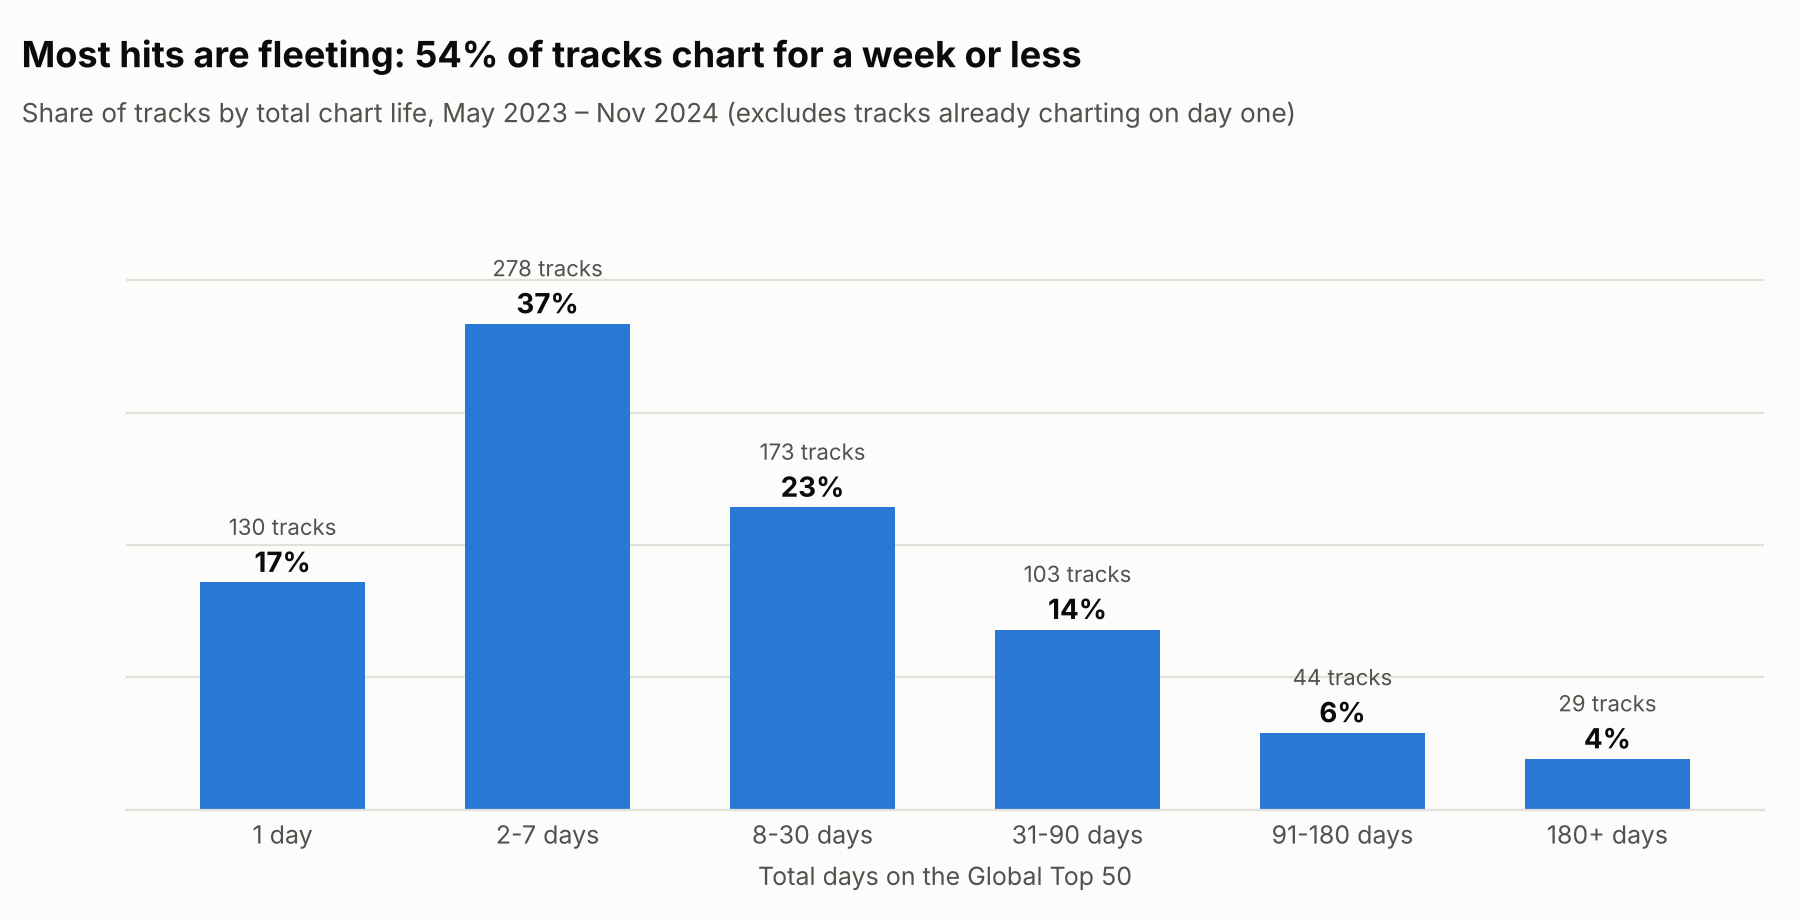
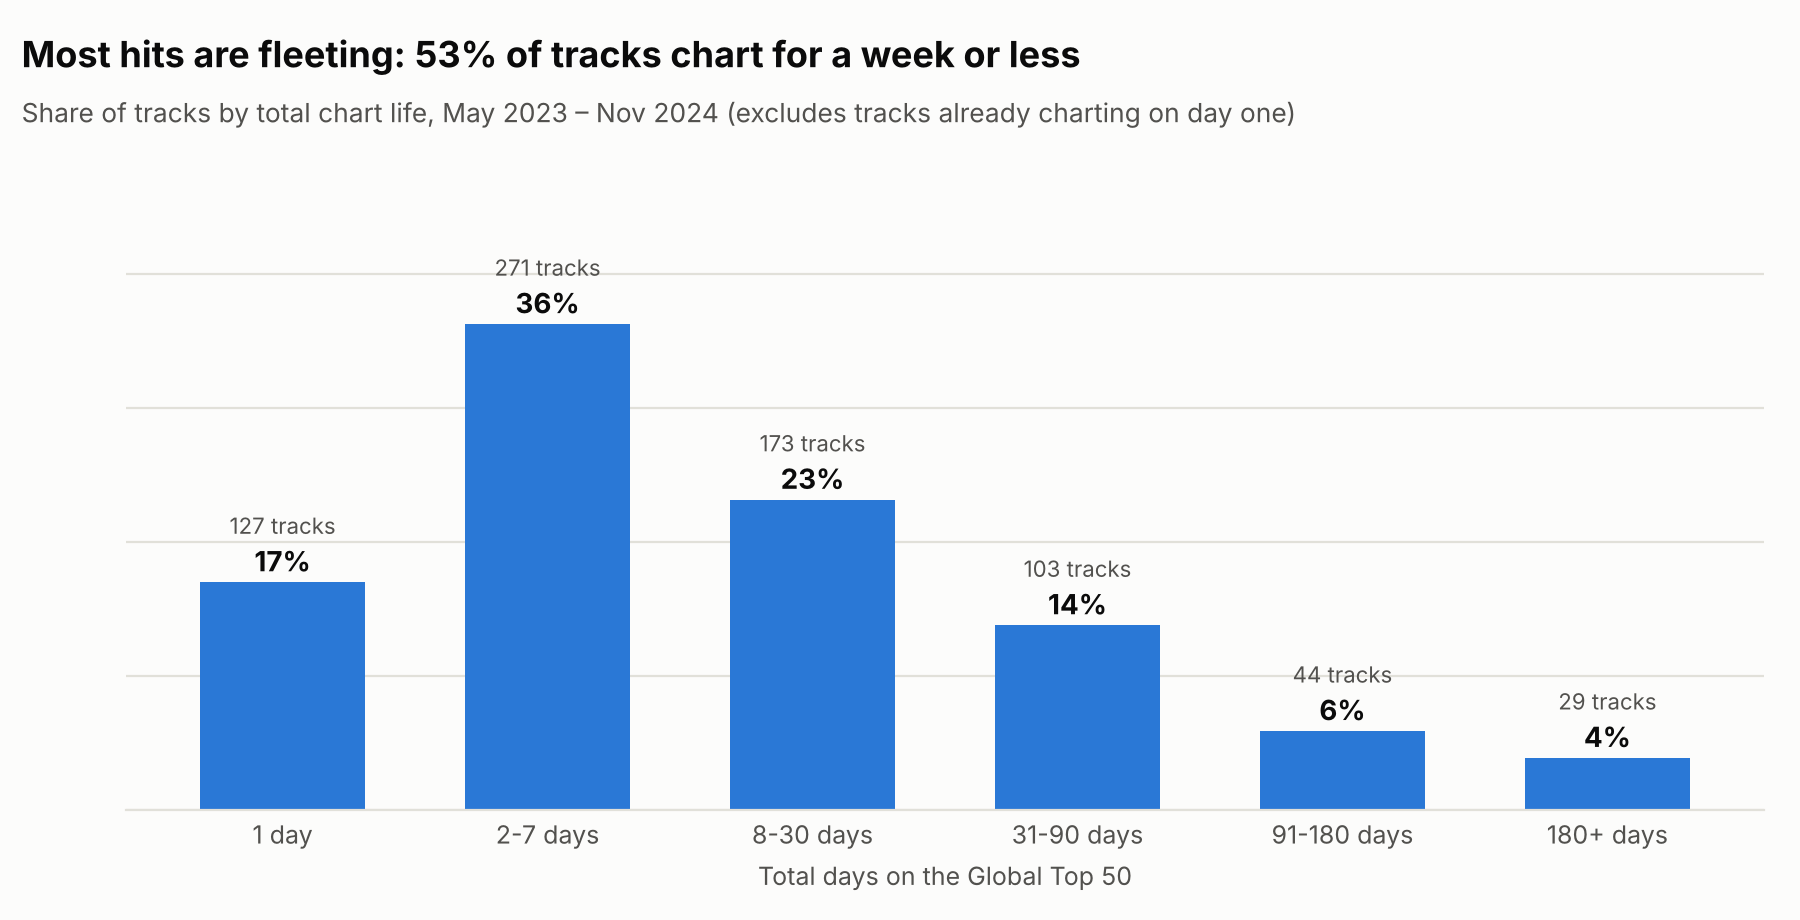
Regenerate insights and model report on corrected tracks

diff --git a/docs/model_report.md b/docs/model_report.md
@@ -4,10 +4,10 @@
 
 ## Summary
 
-- **A week of chart data is worth more than everything known at launch.** On tracks that debuted in 2024 (held out from training), the week-one model reaches **ROC-AUC 0.91** (95% CI 0.87–0.95), against 0.71 for the launch-day model and 0.61 for debut position alone. The gain is **+0.21 AUC** (95% CI +0.13 to +0.28, paired bootstrap).
-- **The model is useful in practice.** Of the 20% of test tracks it ranks highest, 82% went on to chart 30+ days, against a base rate of 28% (**2.9x lift**).
+- **A week of chart data is worth more than everything known at launch.** On tracks that debuted in 2024 (held out from training), the week-one model reaches **ROC-AUC 0.91** (95% CI 0.86–0.95), against 0.69 for the launch-day model and 0.61 for debut position alone. The gain is **+0.22 AUC** (95% CI +0.14 to +0.29, paired bootstrap).
+- **The model is useful in practice.** Of the 20% of test tracks it ranks highest, 82% went on to chart 30+ days, against a base rate of 29% (**2.8x lift**).
 - **Survival analysis agrees.** Half of all tracks leave the chart within **7 chart days**. Among tracks still charting on day 7, those that climbed in week one have a median remaining life of **57 days**, against 8 for those that didn't (log-rank p < 0.001).
-- **At launch, 5 of 9 characteristics significantly change survival** in a Cox model: debut position (per 10 places lower) (HR 1.21); popularity at debut (per 10 points) (HR 0.91); new release (<=30 days old) (HR 1.45); released as a single (HR 0.58); duration (per minute) (HR 1.10). The model ranks tracks only moderately well (C-index 0.65), which confirms that launch-day information alone is limited.
+- **At launch, 5 of 9 characteristics significantly change survival** in a Cox model: debut position (per 10 places lower) (HR 1.21); popularity at debut (per 10 points) (HR 0.90); new release (<=30 days old) (HR 1.43); released as a single (HR 0.60); duration (per minute) (HR 1.10). The model ranks tracks only moderately well (C-index 0.65), which confirms that launch-day information alone is limited.
 
 ---
 
@@ -24,7 +24,7 @@
 
 - **Point-in-time features.** Launch-day features use only the debut snapshot, release metadata and the lead artist's chart history *before* the debut date. Week-one features use only the 7 days after debut. Tests in `tests/test_ml_features.py` check both rules.
 - **Labels need a full window.** Tracks debuting in the last 180 days of data have no label, because their outcome isn't known yet. They are scored on a watchlist (section 5) instead of being dropped silently or mislabelled.
-- **Time-based split.** Train on debuts before 01 Jan 2024 (n = 376), test on later debuts (n = 202). A random split would let the model learn from tracks released after the ones it predicts.
+- **Time-based split.** Train on debuts before 01 Jan 2024 (n = 376), test on later debuts (n = 195). A random split would let the model learn from tracks released after the ones it predicts.
 - **Model selection** uses 5-fold cross-validation inside the training set only. The test set is scored exactly once.
 - **Uncertainty.** Confidence intervals come from 2,000 paired bootstrap resamples of the test set.
 
@@ -34,19 +34,19 @@
 
 | Model | Features | Chosen algorithm | CV AUC (train) | Test AUC [95% CI] | Avg precision | Brier | Precision @ top 20% |
 |---|---|---|---:|---:|---:|---:|---:|
-| Debut position only | 1 feature | Gradient boosting | 0.557 | 0.606 [0.52–0.69] | 0.408 | 0.199 | 40% |
-| Launch-day model | 12 features | Logistic regression | 0.681 | 0.706 [0.62–0.78] | 0.499 | 0.181 | 50% |
-| Week-one model | 19 features | Logistic regression | 0.935 | 0.913 [0.87–0.95] | 0.801 | 0.106 | 82% |
+| Debut position only | 1 feature | Gradient boosting | 0.557 | 0.610 [0.53–0.69] | 0.430 | 0.204 | 41% |
+| Launch-day model | 12 features | Logistic regression | 0.681 | 0.691 [0.61–0.77] | 0.499 | 0.187 | 51% |
+| Week-one model | 19 features | Logistic regression | 0.935 | 0.908 [0.86–0.95] | 0.799 | 0.111 | 82% |
 
-Base rate in the test set: 28%. An uninformative model scores AUC 0.50 and average precision 0.282.
+Base rate in the test set: 29%. An uninformative model scores AUC 0.50 and average precision 0.292.
 
-**Does momentum really add value?** In a paired bootstrap, the week-one model beats the launch-day model by +0.208 AUC (95% CI +0.134 to +0.283, bootstrap p < 0.001).
+**Does momentum really add value?** In a paired bootstrap, the week-one model beats the launch-day model by +0.217 AUC (95% CI +0.142 to +0.292, bootstrap p < 0.001).
 
 ### What drives the prediction
 
 ![Feature importance](figures/10_feature_importance.png)
 
-Shuffling **week 1: position on day 7 (51 = off chart)** costs the most AUC (0.077). Week-one features account for 93% of the total importance. Permutation importance on the held-out set is model-agnostic, and unlike impurity-based importance it isn't biased towards high-cardinality features.
+Shuffling **week 1: position on day 7 (51 = off chart)** costs the most AUC (0.082). Week-one features account for 92% of the total importance. Permutation importance on the held-out set is model-agnostic, and unlike impurity-based importance it isn't biased towards high-cardinality features.
 
 ## 4. Survival analysis
 
@@ -54,7 +54,7 @@ Classification needs a fixed window and drops tracks whose outcome is unknown. S
 
 - **Time:** total days on chart.
 - **Event:** the chart life has ended, meaning the track was absent for at least the last 14 days of data.
-- **Tracks:** 757 with a known debut, of which 668 have ended their chart life and 89 are censored.
+- **Tracks:** 747 with a known debut, of which 658 have ended their chart life and 89 are censored.
 
 ### Kaplan-Meier by debut position
 
@@ -62,12 +62,12 @@ Classification needs a fixed window and drops tracks whose outcome is unknown. S
 
 | Group | Tracks | Exits | Median chart days | Still charting at 30 days | Still charting at 90 days |
 |---|---:|---:|---:|---:|---:|
-| All tracks | 757 | 668 | 7 | 26% | 13% |
-| Debuted #1-10 | 145 | 124 | 20 | 38% | 20% |
-| Debuted #11-25 | 199 | 181 | 5 | 14% | 7% |
-| Debuted #26-50 | 413 | 363 | 5 | 28% | 13% |
+| All tracks | 747 | 658 | 7 | 27% | 13% |
+| Debuted #1-10 | 143 | 122 | 21 | 38% | 20% |
+| Debuted #11-25 | 196 | 178 | 5 | 15% | 8% |
+| Debuted #26-50 | 408 | 358 | 5 | 28% | 14% |
 
-Log-rank test across the three groups: χ² = 27.2, p < 0.001.
+Log-rank test across the three groups: χ² = 28.6, p < 0.001.
 
 ### Landmark analysis: does week-one momentum matter?
 
@@ -77,7 +77,7 @@ Comparing tracks that climbed in week one with those that didn't, from debut, wo
 
 | Group | Tracks | Exits | Median remaining chart days | At 30 days | At 90 days |
 |---|---:|---:|---:|---:|---:|
-| Climbed in week one | 193 | 148 | 57 | 62% | 37% |
+| Climbed in week one | 194 | 149 | 57 | 62% | 37% |
 | Did not climb | 146 | 134 | 8 | 25% | 12% |
 
 Log-rank test: χ² = 50.7, p < 0.001.
@@ -90,15 +90,15 @@ A hazard ratio (HR) above 1 means the track tends to leave the chart sooner.
 
 | Covariate | HR | 95% CI | p | PH check p |
 |---|---:|---|---:|---:|
-| Debut position (per 10 places lower) | 1.21 | 1.14–1.28 | < 0.001 | < 0.001 |
-| Popularity at debut (per 10 points) | 0.91 | 0.88–0.93 | < 0.001 | 0.353 |
-| New release (<=30 days old) | 1.45 | 1.14–1.84 | 0.003 | 0.088 |
-| Collaboration | 1.18 | 0.95–1.47 | 0.140 | 0.617 |
-| Explicit | 1.17 | 0.99–1.38 | 0.063 | 0.853 |
-| Released as a single | 0.58 | 0.48–0.71 | < 0.001 | 0.100 |
-| Duration (per minute) | 1.10 | 1.01–1.21 | 0.037 | 0.690 |
-| Debuted in holiday season | 1.02 | 0.78–1.34 | 0.869 | 0.082 |
-| Artist's prior chart days (per doubling) | 0.98 | 0.96–1.01 | 0.149 | < 0.001 |
+| Debut position (per 10 places lower) | 1.21 | 1.14–1.29 | < 0.001 | < 0.001 |
+| Popularity at debut (per 10 points) | 0.90 | 0.88–0.93 | < 0.001 | 0.485 |
+| New release (<=30 days old) | 1.43 | 1.12–1.82 | 0.004 | 0.081 |
+| Collaboration | 1.15 | 0.92–1.44 | 0.221 | 0.401 |
+| Explicit | 1.17 | 0.99–1.38 | 0.060 | 0.943 |
+| Released as a single | 0.60 | 0.49–0.72 | < 0.001 | 0.088 |
+| Duration (per minute) | 1.10 | 1.00–1.21 | 0.039 | 0.771 |
+| Debuted in holiday season | 1.04 | 0.80–1.36 | 0.765 | 0.098 |
+| Artist's prior chart days (per doubling) | 0.98 | 0.96–1.01 | 0.194 | < 0.001 |
 
 Concordance (Harrell's C): **0.65**. The *PH check* tests whether each covariate's effect is constant over time, by correlating its Schoenfeld residuals with time. 2 covariate(s) show a time-varying effect (debut position (per 10 places lower), artist's prior chart days (per doubling)). Their hazard ratios are averages over the chart life and should be read as such. A stratified or time-varying Cox model is the natural next step.
 
@@ -112,19 +112,19 @@ The final week-one model is refit on all labelled tracks and scores the tracks t
 | Numb | Linkin Park | 2024-09-08 | 44 | 22 | 95% | 28 |
 | Tu Boda | Oscar Maydon | 2024-10-15 | 39 | 5 | 95% | 44 |
 | The Emptiness Machine | Linkin Park | 2024-09-08 | 7 | 6 | 95% | 76 |
-| Please Please Please | Sabrina Carpenter | 2024-06-09 | 6 | 1 | 95% | 170 |
 | Big Dawgs | Hanumankind | 2024-08-01 | 48 | 14 | 94% | 64 |
+| Please Please Please | Sabrina Carpenter | 2024-06-09 | 6 | 1 | 94% | 170 |
 | APT. | ROSÉ | 2024-10-20 | 3 | 1 | 93% | 39 |
 | Rockstar | LISA | 2024-06-30 | 14 | 12 | 93% | 46 |
-| Houdini | Eminem | 2024-06-02 | 3 | 3 | 92% | 77 |
-| REAL GANGSTA LOVE | Trueno | 2024-06-09 | 35 | 16 | 91% | 70 |
+| REAL GANGSTA LOVE | Trueno | 2024-06-09 | 35 | 16 | 92% | 70 |
+| Diet Pepsi | Addison Rae | 2024-10-03 | 50 | 30 | 91% | 31 |
 
 ## 6. Model card
 
 | | |
 |---|---|
 | **Model** | Logistic regression, 19 features |
-| **Training data** | 578 labelled tracks (debuts 2023-05-19 to 2024-05-31) |
+| **Training data** | 571 labelled tracks (debuts 2023-05-19 to 2024-05-31) |
 | **Intended use** | Ranking newly charting tracks by their likelihood of lasting, one week after debut |
 | **Not intended for** | Predicting stream counts, regional charts, or tracks outside the Global Top 50 |
 | **Known limitations** | Small sample; a single 18-month window; artist history only visible inside the dataset window, so early debuts have less of it; associations, not causal effects |

diff --git a/docs/insights.md b/docs/insights.md
@@ -4,19 +4,19 @@
 
 ## Executive summary
 
-1. **Chart life is short and extremely uneven.** The median track lasts **6 days**; 17% last a single day. The longest-charting 10% of tracks hold **58% of all chart slots**.
-2. **A day-one peak predicts a short life.** 65% of tracks peak on debut day. They spend a median **3 days** on the chart in their first 180 days, against **31 days** for tracks that climbed after debuting (p < 0.001, effect size 0.69).
+1. **Chart life is short and extremely uneven.** The median track lasts **6 days**; 17% last a single day. The longest-charting 10% of tracks hold **57% of all chart slots**.
+2. **A day-one peak predicts a short life.** 64% of tracks peak on debut day. They spend a median **3 days** on the chart in their first 180 days, against **31 days** for tracks that climbed after debuting (p < 0.001, effect size 0.69).
 3. **Debut position is a poor predictor of longevity** (Spearman ρ = -0.17, weak). Top-10 debuts last longer (median 15 days vs 4), but launch *momentum* matters more than launch *height*.
-4. **Collaborations do not last longer.** Median 4 vs 6 days; the difference is not statistically significant (p = 0.46).
-5. **Slow burners win.** Tracks that reached the chart 1–12 months after release last a median **21 days**, against 5 for brand-new releases.
+4. **Collaborations do not last longer.** Median 6 vs 6 days; the difference is not statistically significant (p = 0.96).
+5. **Slow burners win.** Tracks that reached the chart 1–12 months after release last a median **21 days**, against 6 for brand-new releases.
 6. **Album drops take over the chart.** On 21 Apr 2024, Taylor Swift held **30 of 50 slots** (HHI 3,669 against a typical 309). 3 of the 5 takeover events were Taylor Swift releases.
 7. **The Christmas cliff.** Holiday songs held **94%** of the chart on 26 Dec 2023 and 4% on 28 Dec.
 
 ## Method
 
-- **Source:** the gold star schema and marts built by this pipeline (807 tracks, 556 daily snapshots).
+- **Source:** the gold star schema and marts built by this pipeline (797 tracks, 556 daily snapshots).
 - **Censoring.** The data is a window into an ongoing chart. Tracks already charting on the first snapshot have unknown debuts (*left-censored*), and tracks still charting on the last snapshot have unfinished lives (*right-censored*). Ignoring this would understate how long recent tracks last.
-- **Analysis cohort (578 tracks):** tracks with a known debut and a full 180 days of follow-up. Longevity is compared on *chart days within 180 days of debut*, the same observation window for every track ([cohort.sql](../sql/analyses/cohort.sql)).
+- **Analysis cohort (571 tracks):** tracks with a known debut and a full 180 days of follow-up. Longevity is compared on *chart days within 180 days of debut*, the same observation window for every track ([cohort.sql](../sql/analyses/cohort.sql)).
 - **Statistics:** chart-day counts are heavily right-skewed, so groups are compared with medians and the two-sided **Mann-Whitney U test** (no normality assumption). Effect size is the rank-biserial correlation. Rank association uses **Spearman's ρ**.
 - **Holiday tracks** are tracks with at least 90% of their chart days between 15 Nov and 31 Dec that were released more than a year before debuting.
 
@@ -26,16 +26,16 @@
 
 ![Longevity distribution](figures/01_longevity.png)
 
-Of 757 tracks with a known debut, 54% spend a week or less on the chart. The distribution has a long tail: the top 10% of all tracks account for 58% of chart slots and the bottom half for 3.9%.
+Of 747 tracks with a known debut, 53% spend a week or less on the chart. The distribution has a long tail: the top 10% of all tracks account for 57% of chart slots and the bottom half for 4.0%.
 
 | Chart life | Tracks | Share |
 |---|---|---|
-| 1 day | 130 | 17.2% |
-| 2-7 days | 278 | 36.7% |
-| 8-30 days | 173 | 22.9% |
-| 31-90 days | 103 | 13.6% |
-| 91-180 days | 44 | 5.8% |
-| 180+ days | 29 | 3.8% |
+| 1 day | 127 | 17.0% |
+| 2-7 days | 271 | 36.3% |
+| 8-30 days | 173 | 23.2% |
+| 31-90 days | 103 | 13.8% |
+| 91-180 days | 44 | 5.9% |
+| 180+ days | 29 | 3.9% |
 
 SQL: [q1_longevity_distribution.sql](../sql/analyses/q1_longevity_distribution.sql) · [q2_hit_concentration.sql](../sql/analyses/q2_hit_concentration.sql)
 
@@ -46,21 +46,21 @@ SQL: [q1_longevity_distribution.sql](../sql/analyses/q1_longevity_distribution.s
 | Dimension | Segment | Tracks | Median days (first 180) | Reached 30+ days |
 |---|---|---|---|---|
 | Credits | Solo | 472 | 6 | 24% |
-| Credits | Collaboration | 106 | 4 | 23% |
-| Debut position | Debuted #1-10 | 113 | 15 | 34% |
-| Debut position | Debuted #11-25 | 154 | 5 | 14% |
-| Debut position | Debuted #26-50 | 311 | 4 | 25% |
+| Credits | Collaboration | 99 | 6 | 24% |
+| Debut position | Debuted #1-10 | 112 | 15 | 34% |
+| Debut position | Debuted #11-25 | 151 | 5 | 15% |
+| Debut position | Debuted #26-50 | 308 | 4 | 25% |
 | Launch shape | Climbed after debut | 205 | 31 | 52% |
-| Launch shape | Peaked on debut day | 373 | 3 | 8% |
+| Launch shape | Peaked on debut day | 366 | 3 | 8% |
 | Release age at debut | Released 1-12 months earlier | 45 | 21 | 47% |
 | Release age at debut | Released 1+ years earlier | 92 | 6.5 | 27% |
-| Release age at debut | Released <=30 days earlier | 441 | 5 | 21% |
+| Release age at debut | Released <=30 days earlier | 434 | 6 | 21% |
 
 | Comparison | Medians | Test | Effect size |
 |---|---|---|---|
 | Climbed after debut vs Peaked on debut day | 31 vs 3 days | Mann-Whitney U, p < 0.001 | 0.69 (large) |
-| Collaboration vs Solo | 4 vs 6 days | Mann-Whitney U, p = 0.46 | 0.05 (negligible) |
-| Debut position vs chart days | n = 578 | Spearman ρ = -0.17, p < 0.001 | weak |
+| Collaboration vs Solo | 6 vs 6 days | Mann-Whitney U, p = 0.96 | 0.00 (negligible) |
+| Debut position vs chart days | n = 571 | Spearman ρ = -0.17, p < 0.001 | weak |
 
 **Reading it.** Most new releases debut at their peak and then fall away, which fits a release-day burst of streams from existing fans. Tracks that *climb* after debuting are still gaining listeners, and they last about 10 times longer. Debut position is a much weaker predictor. The strongest single signal, launch shape, is only known after the first few days. That gives Phase 3's model a clear target: predict longevity from **early momentum** (position change over the first week), not from debut position alone.
 
@@ -68,7 +68,7 @@ SQL: [q3_segment_longevity.sql](../sql/analyses/q3_segment_longevity.sql)
 
 ## Q3. How quickly do tracks reach the chart after release?
 
-Among 643 non-catalogue tracks with exact release dates, the median gap from release to debut is **2 days**: 80% debut within a week and 18% within a day. Global chart success is decided almost immediately, which matches the debut-day peak pattern in Q2.
+Among 634 non-catalogue tracks with exact release dates, the median gap from release to debut is **2 days**: 80% debut within a week and 18% within a day. Global chart success is decided almost immediately, which matches the debut-day peak pattern in Q2.
 
 SQL: [q7_release_timing.sql](../sql/analyses/q7_release_timing.sql)
 
